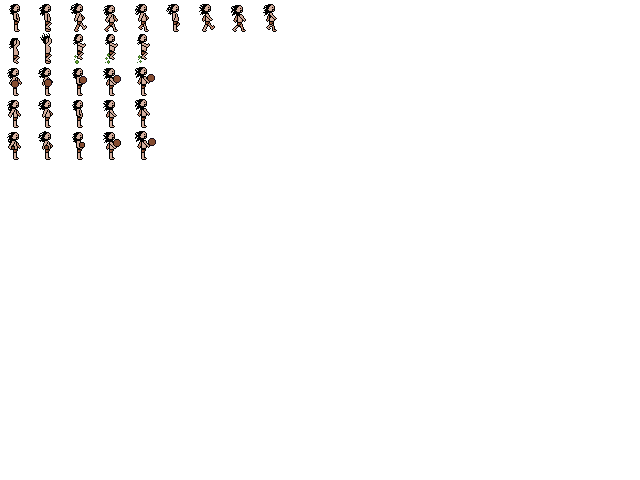
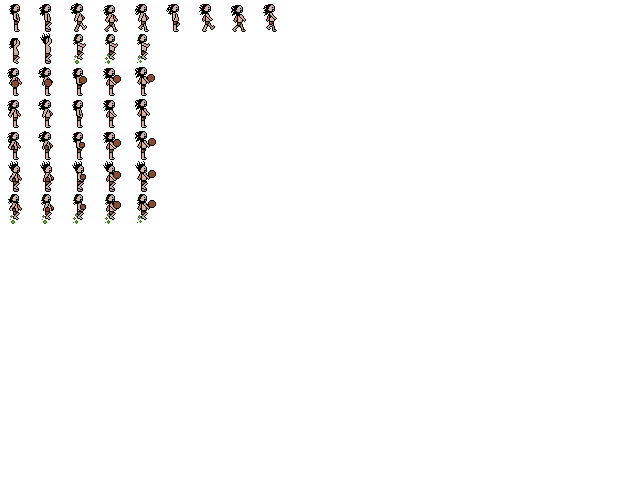
Add shooting animations

Changed region(s): [[0.0625, 0.3438, 0.25, 0.4688], [0.0, 0.3438, 0.0312, 0.4688]]

diff --git a/core/src/com/jashlaviu/platformer/actors/Player.java b/core/src/com/jashlaviu/platformer/actors/Player.java
@@ -68,6 +68,18 @@ public class Player extends ActorJash {
 		TextureRegion shootNormal4 = new TextureRegion(walkSheet, 96, 128, 32, 32);
 		TextureRegion shootNormal5 = new TextureRegion(walkSheet, 128, 128, 32, 32);
 		
+		TextureRegion shootFall1 = new TextureRegion(walkSheet, 0, 160, 32, 32);		
+		TextureRegion shootFall2 = new TextureRegion(walkSheet, 32, 160, 32, 32);
+		TextureRegion shootFall3 = new TextureRegion(walkSheet, 64, 160, 32, 32);
+		TextureRegion shootFall4 = new TextureRegion(walkSheet, 96, 160, 32, 32);
+		TextureRegion shootFall5 = new TextureRegion(walkSheet, 128, 160, 32, 32);
+		
+		TextureRegion shootJump1 = new TextureRegion(walkSheet, 0, 192, 32, 32);		
+		TextureRegion shootJump2 = new TextureRegion(walkSheet, 32, 192, 32, 32);
+		TextureRegion shootJump3 = new TextureRegion(walkSheet, 64, 192, 32, 32);
+		TextureRegion shootJump4 = new TextureRegion(walkSheet, 96, 192, 32, 32);
+		TextureRegion shootJump5 = new TextureRegion(walkSheet, 128, 192, 32, 32);
+		
 		
 		Array<TextureRegion> walkRegions = new Array<TextureRegion>();
 		walkRegions.add(walk1);
@@ -94,6 +106,21 @@ public class Player extends ActorJash {
 		shootNormalRegions.add(shootNormal4);
 		shootNormalRegions.add(shootNormal5);
 		
+		Array<TextureRegion> shootFallRegions = new Array<TextureRegion>();
+		shootFallRegions.add(shootFall1);
+		shootFallRegions.add(shootFall2);
+		shootFallRegions.add(shootFall3);
+		shootFallRegions.add(shootFall4);
+		shootFallRegions.add(shootFall5);		
+		
+		Array<TextureRegion> shootJumpRegions = new Array<TextureRegion>();
+		shootJumpRegions.add(shootJump1);
+		shootJumpRegions.add(shootJump2);
+		shootJumpRegions.add(shootJump3);
+		shootJumpRegions.add(shootJump4);
+		shootJumpRegions.add(shootJump5);	
+		
+		
 		setNormalRegion(walk0);		
 		
 		setWalkAnimation(0.08f, walkRegions);		
@@ -102,6 +129,8 @@ public class Player extends ActorJash {
 		
 		setShootNormalAnimation(0.08f, shootNormalRegions);
 		setShootWalkAnimation(0.08f, shootNormalRegions);
+		setShootFalllAnimation(0.08f, shootFallRegions);
+		setShootJumpAnimation(0.08f, shootJumpRegions);
 		
 		bounds = new Rectangle(getX()+12, getY()+1, 8, 27);
 		setCollisionBounds(bounds);		
@@ -164,13 +193,23 @@ public class Player extends ActorJash {
 			
 		}
 		else if(state == State.JUMPING){
-			if(velocity.y == 0){
+			if(velocity.y == 0){				
 				setRegion(normalRegion);				
 			}else if(velocity.y > 0){
-				animationTime += delta;
-				setRegion(jumpAnimation.getKeyFrame(animationTime, true));
+				if(isShooting){ //Is shooting and is jumping
+					animationTime += delta;
+					setRegion(shootJumpAnimation.getKeyFrame(animationTime, true));
+				}else{    //NOT shooting and is jumping
+					animationTime += delta;
+					setRegion(jumpAnimation.getKeyFrame(animationTime, true));
+				}
 			}else{
-				setRegion(fallAnimation.getKeyFrame(0, false));
+				if(isShooting){ //Is shooting and is falling
+					setRegion(shootFallAnimation.getKeyFrame(animationTime, true));
+					animationTime += delta;
+				}else{   //NOT shooting and is falling
+					setRegion(fallAnimation.getKeyFrame(0, false));
+				}
 			}
 		}
 		
@@ -263,6 +302,10 @@ public class Player extends ActorJash {
 	
 	public void setCheckpoint(Checkpoint checkpoint){
 		this.checkpoint = checkpoint;
+	}
+	
+	public boolean isShooting(){
+		return isShooting;
 	}
 
 }

diff --git a/core/src/com/jashlaviu/platformer/GameLogic.java b/core/src/com/jashlaviu/platformer/GameLogic.java
@@ -252,18 +252,19 @@ public class GameLogic {
 	}
 	
 	private void shoot(){
-		ShootCoco shoot;
-		
-		if(player.getFacing() == Facing.RIGHT){
-			shoot = new ShootCoco(player.getX() + 16, player.getY() + 12);
-		}else{
-			shoot = new ShootCoco(player.getX() + 10, player.getY() + 12);
+		if(!player.isShooting()){
+			ShootCoco shoot;		
+			if(player.getFacing() == Facing.RIGHT){
+				shoot = new ShootCoco(player.getX() + 16, player.getY() + 12);
+			}else{
+				shoot = new ShootCoco(player.getX() + 10, player.getY() + 12);
+			}
+			
+			player.setShooting(true);
+			
+			shoots.add(shoot);
+			stage.addActor(shoot);
 		}
-		
-		player.setShooting(true);
-		
-		shoots.add(shoot);
-		stage.addActor(shoot);
 		
 	}
 	

diff --git a/core/src/com/jashlaviu/platformer/screens/TestScreen.java b/core/src/com/jashlaviu/platformer/screens/TestScreen.java
@@ -30,7 +30,7 @@ public class TestScreen extends ScreenJash{
 		camera.position.y = 130;
 	
 		camera.update();		
-		stage.setDebugAll(true);
+		stage.setDebugAll(false);
 	}
 	
 	@Override
